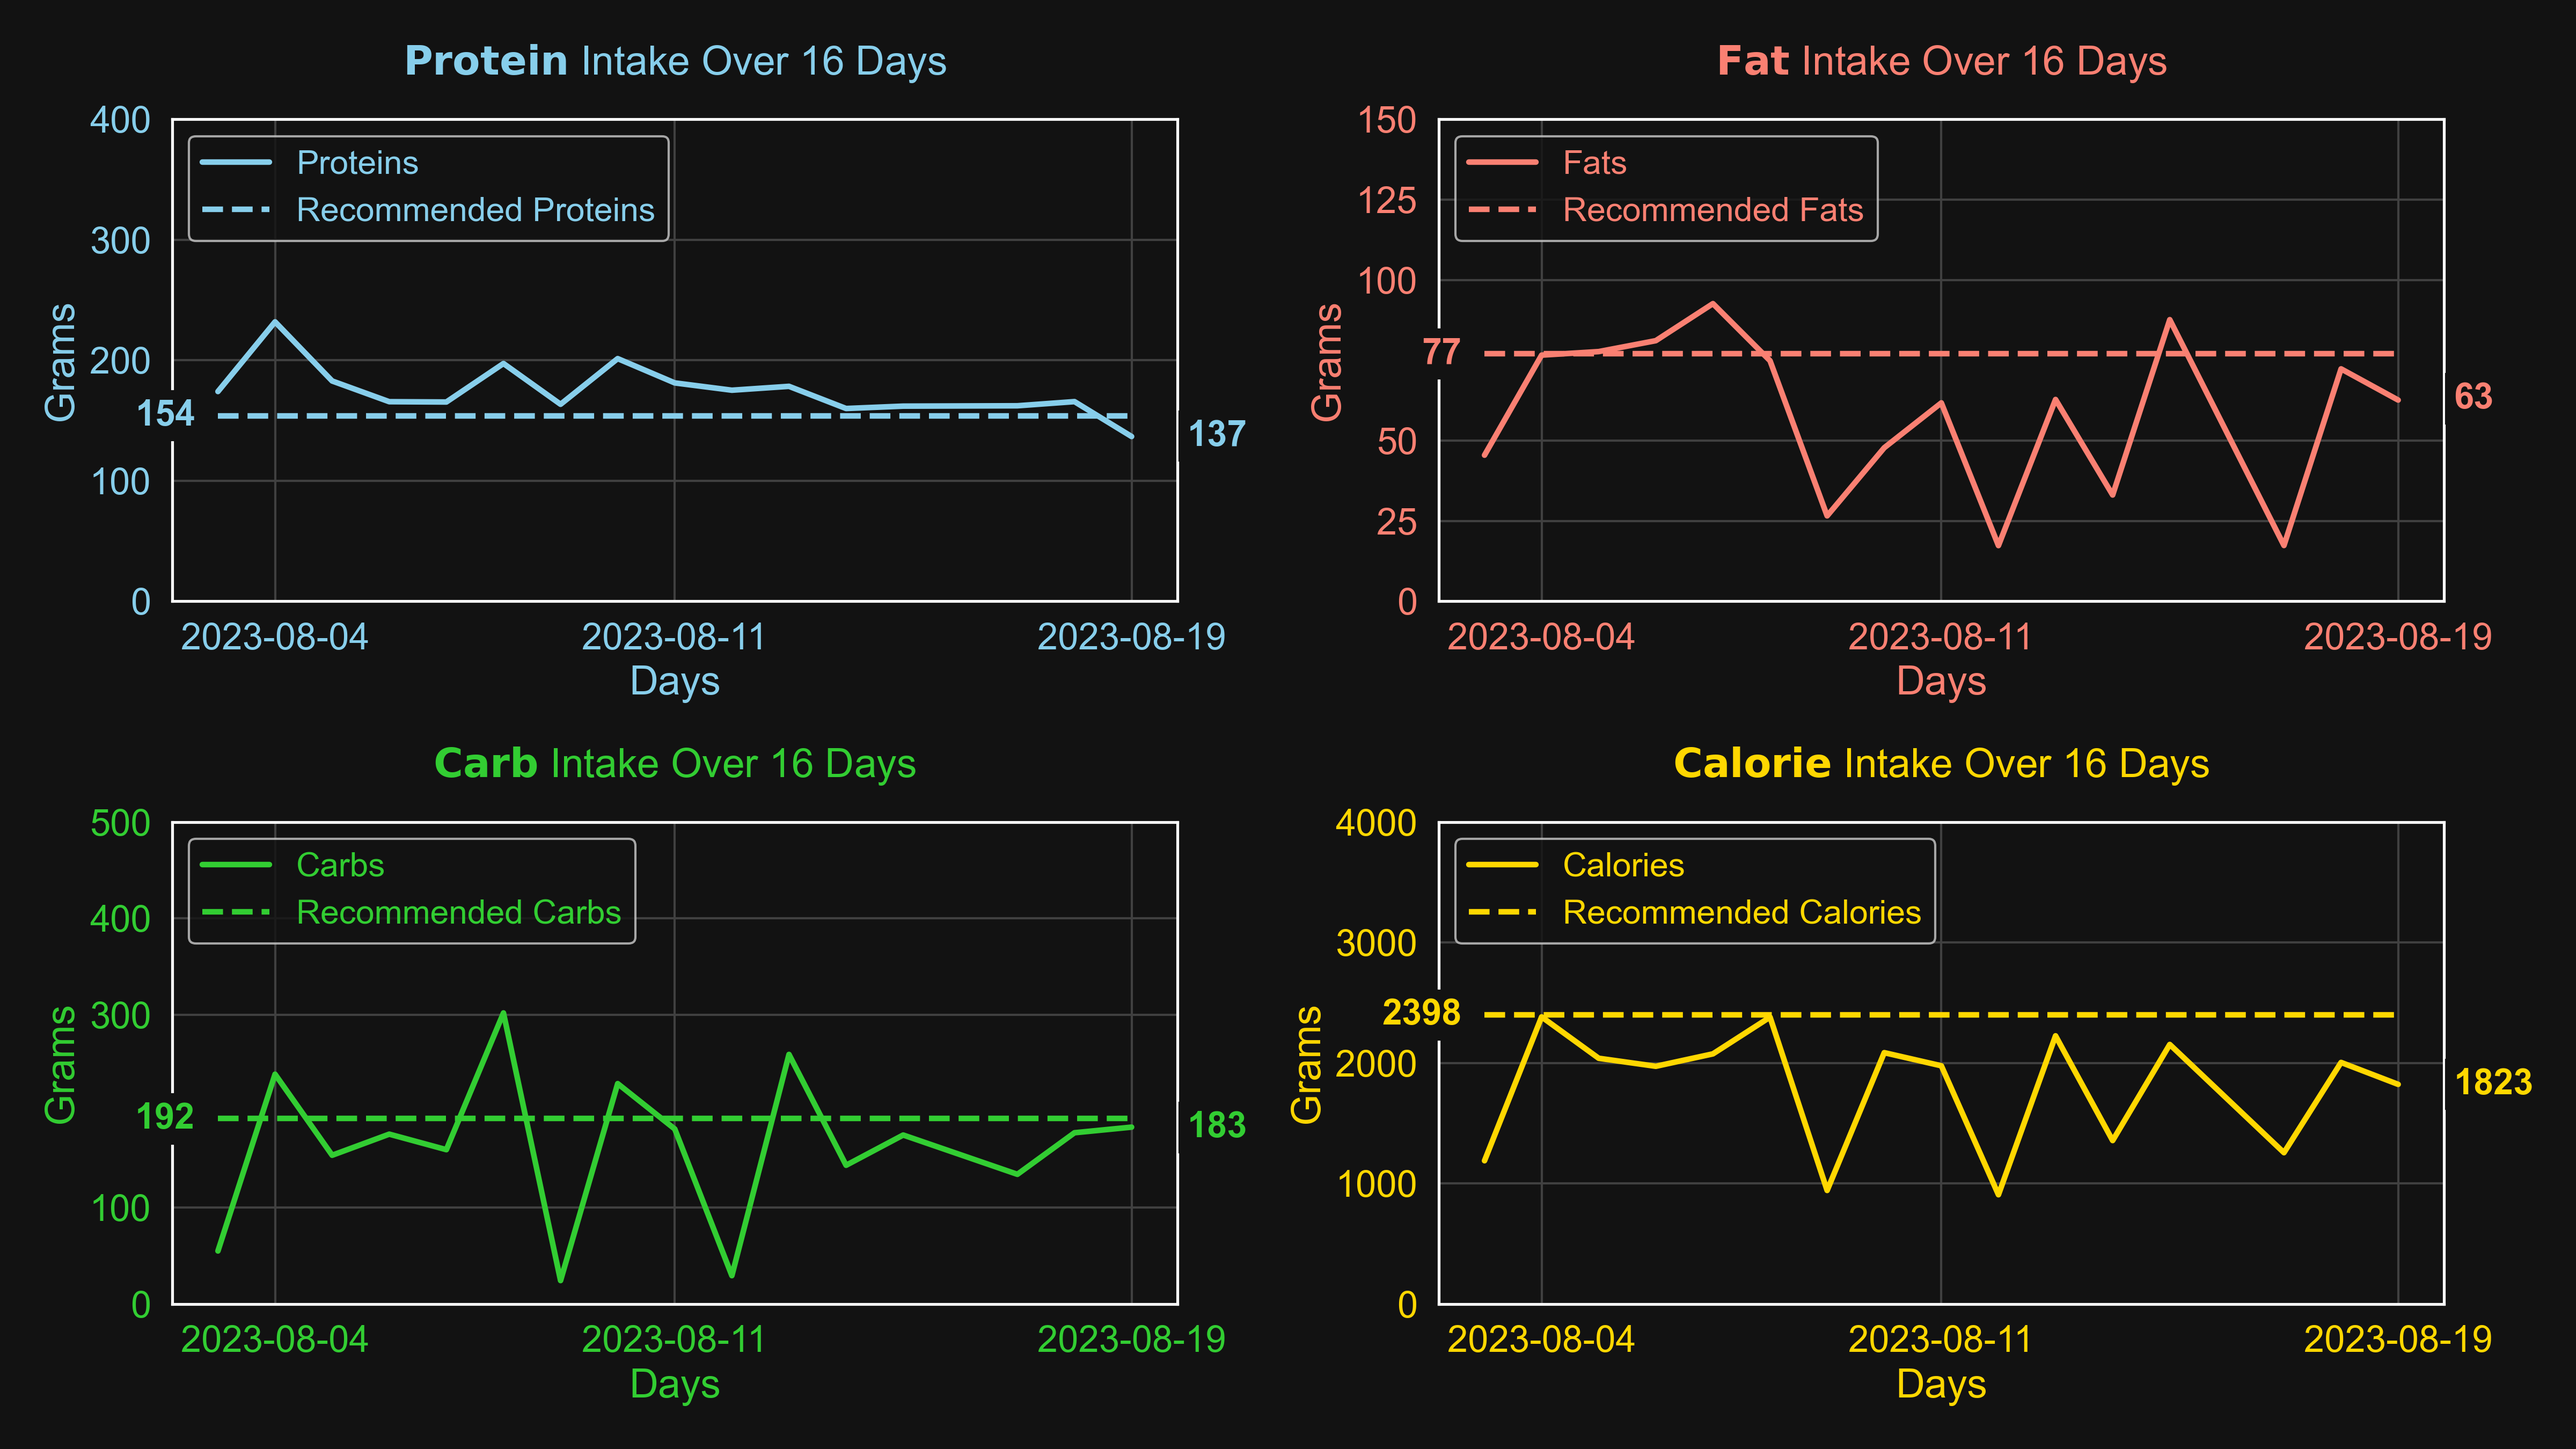
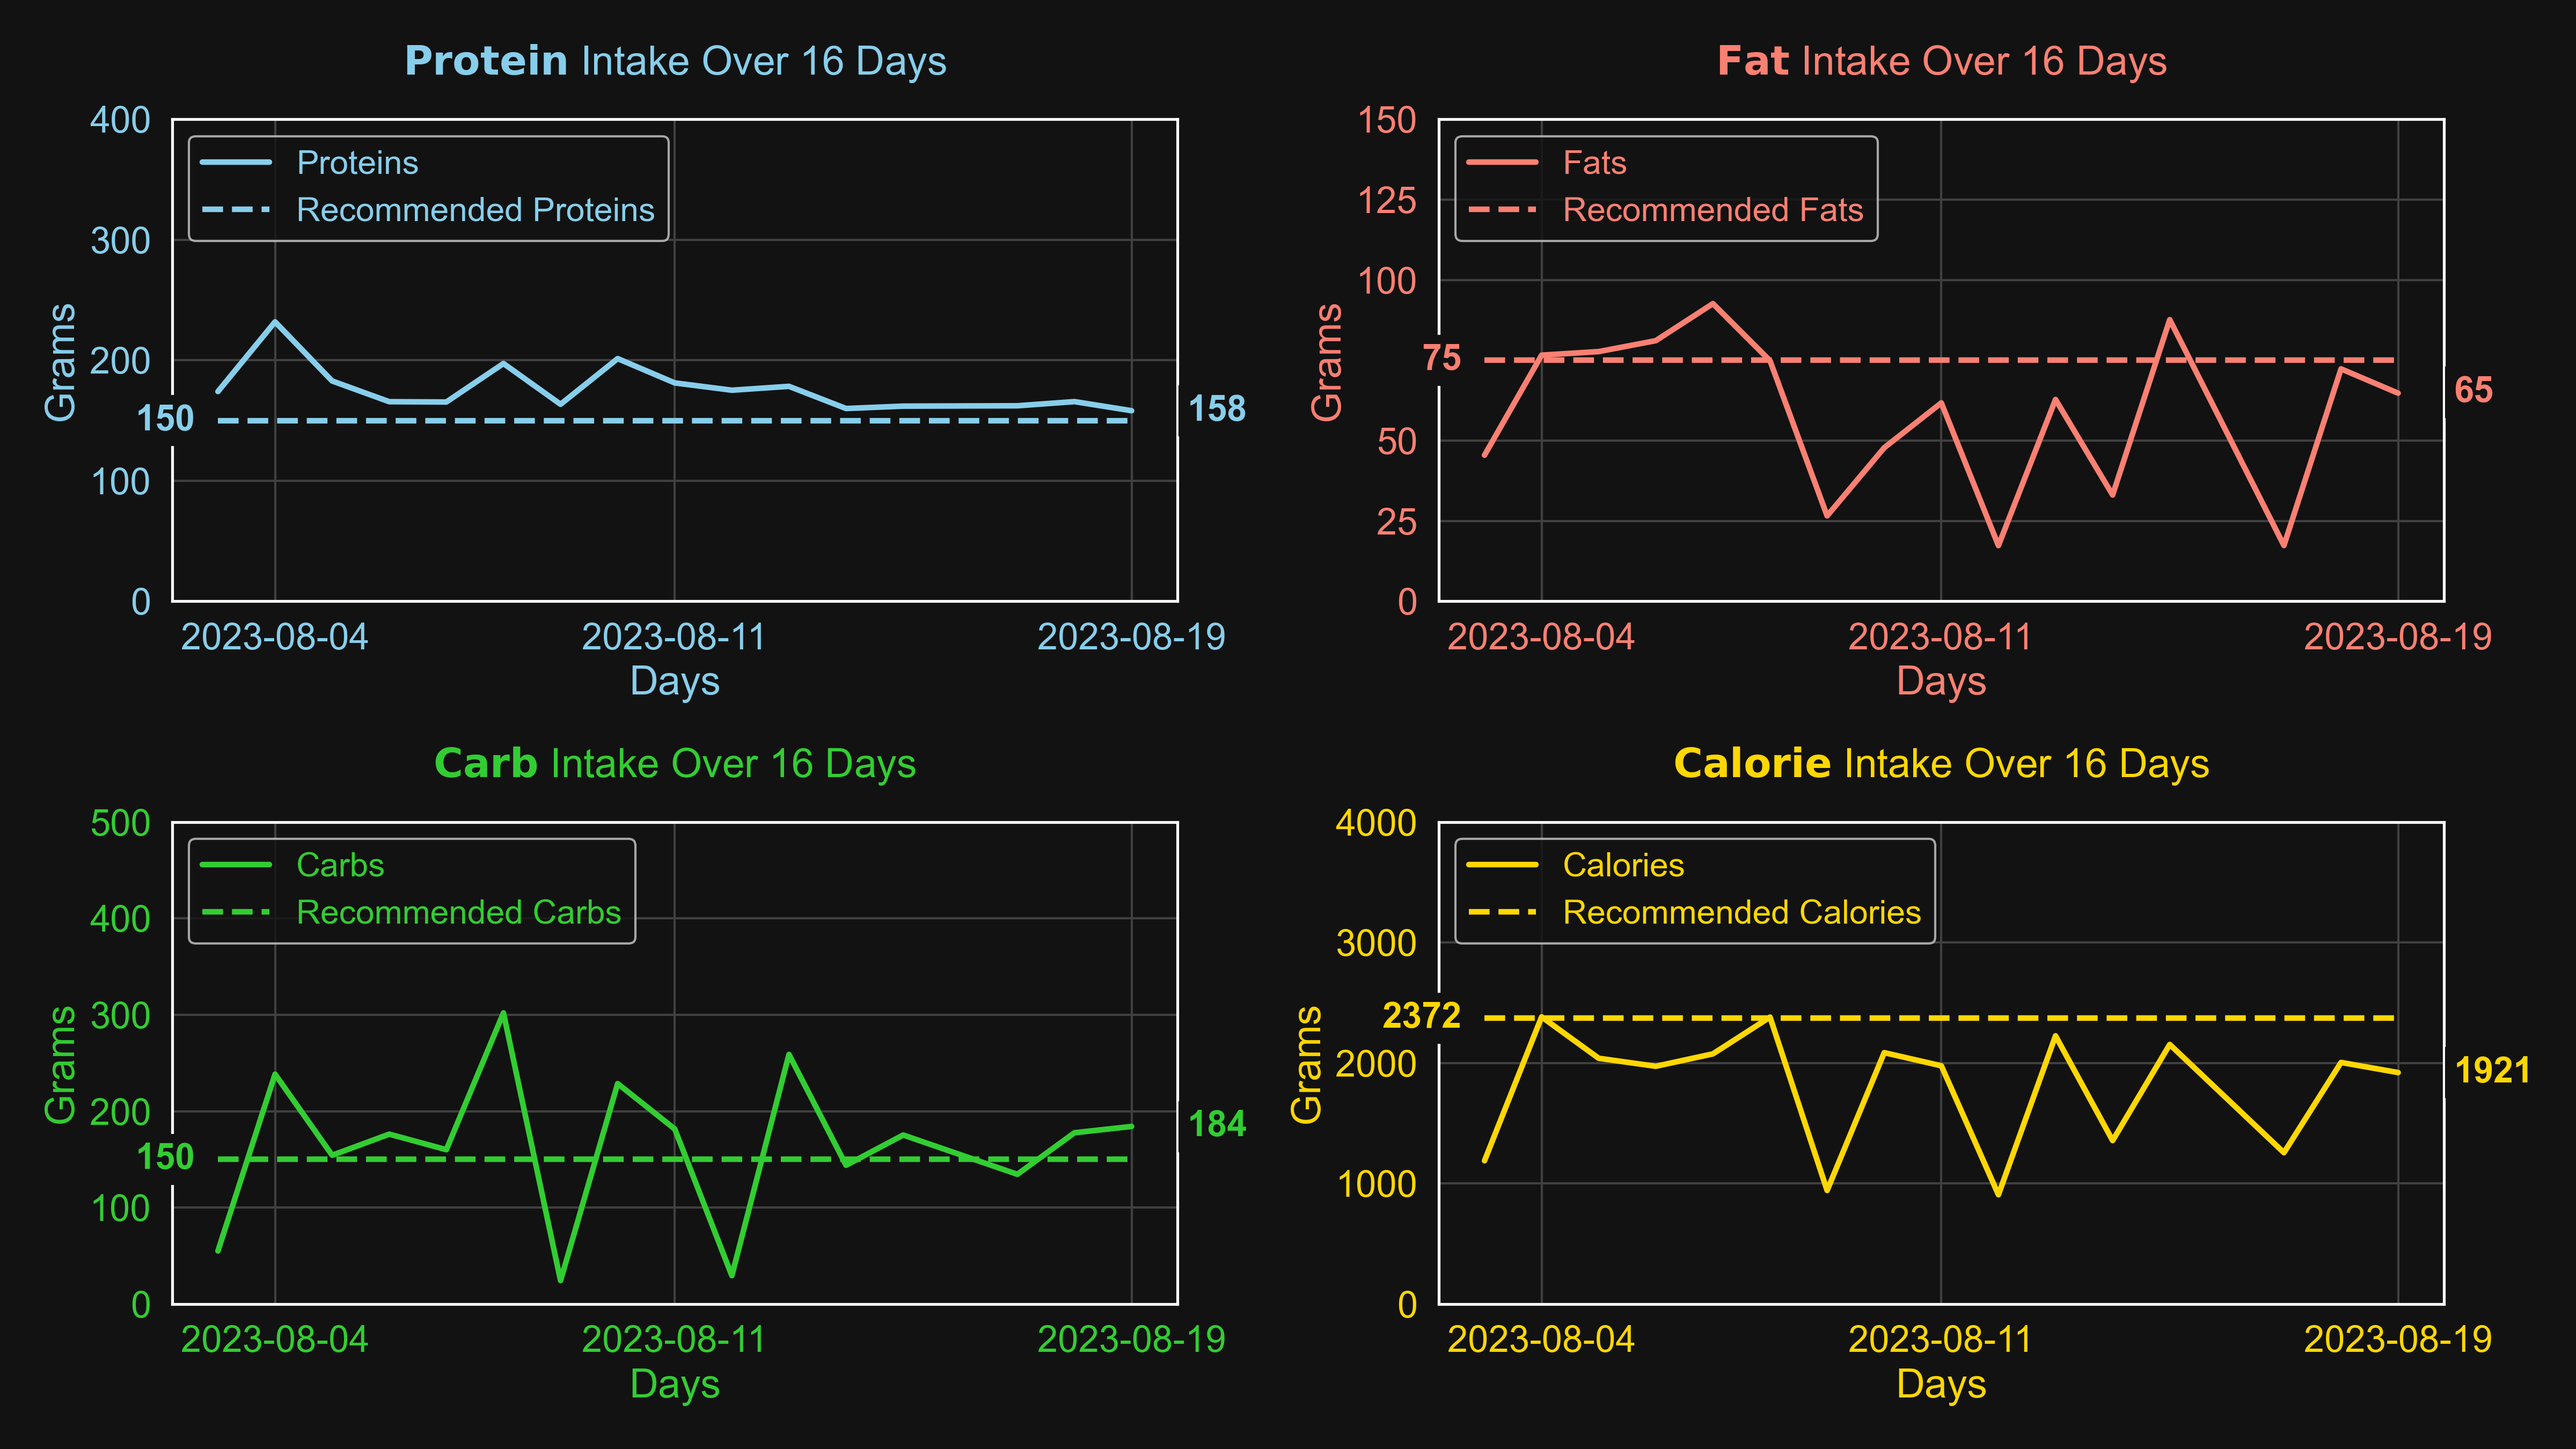
adaptive thermogenesis added

diff --git a/utils.py b/utils.py
@@ -66,6 +66,7 @@ def calculate_recommended_values_v2(info):
     height = info['Height']
     age = info['Age']
     gender = info['Gender']
+    AdaptiveThermogenesis = info.get('AdaptiveThermogenesis', 0)
     workout_days = info.get('WorkoutDays', 0)
     workoutDifficulty = info.get('WorkoutDifficulty', 1)
     fasting_hours = info.get('FastingHours', 0)  # Default to 0 if not provided
@@ -75,12 +76,18 @@ def calculate_recommended_values_v2(info):
         bmr = 10 * weight + 6.25 * height - 5 * age + 5
     else:
         bmr = 10 * weight + 6.25 * height - 5 * age - 161
-
+        
+    # Adjusting for adaptive thermogenesis
+    bmr -= AdaptiveThermogenesis * 0.1 * bmr
+    
     # Check if PAL is provided, otherwise calculate based on workout days
     pal = info.get('PAL')
     if pal is None:
         pal = 1.2 + (workout_days * 0.1 * workoutDifficulty)
 
+    # Adjusting for adaptive thermogenesis
+    pal -= 0.08 * pal * AdaptiveThermogenesis
+    
     daily_calories = bmr * pal
 
     # Check if FastingCalorieDiminishingPercent is provided, otherwise use the fasting_hours calculation
